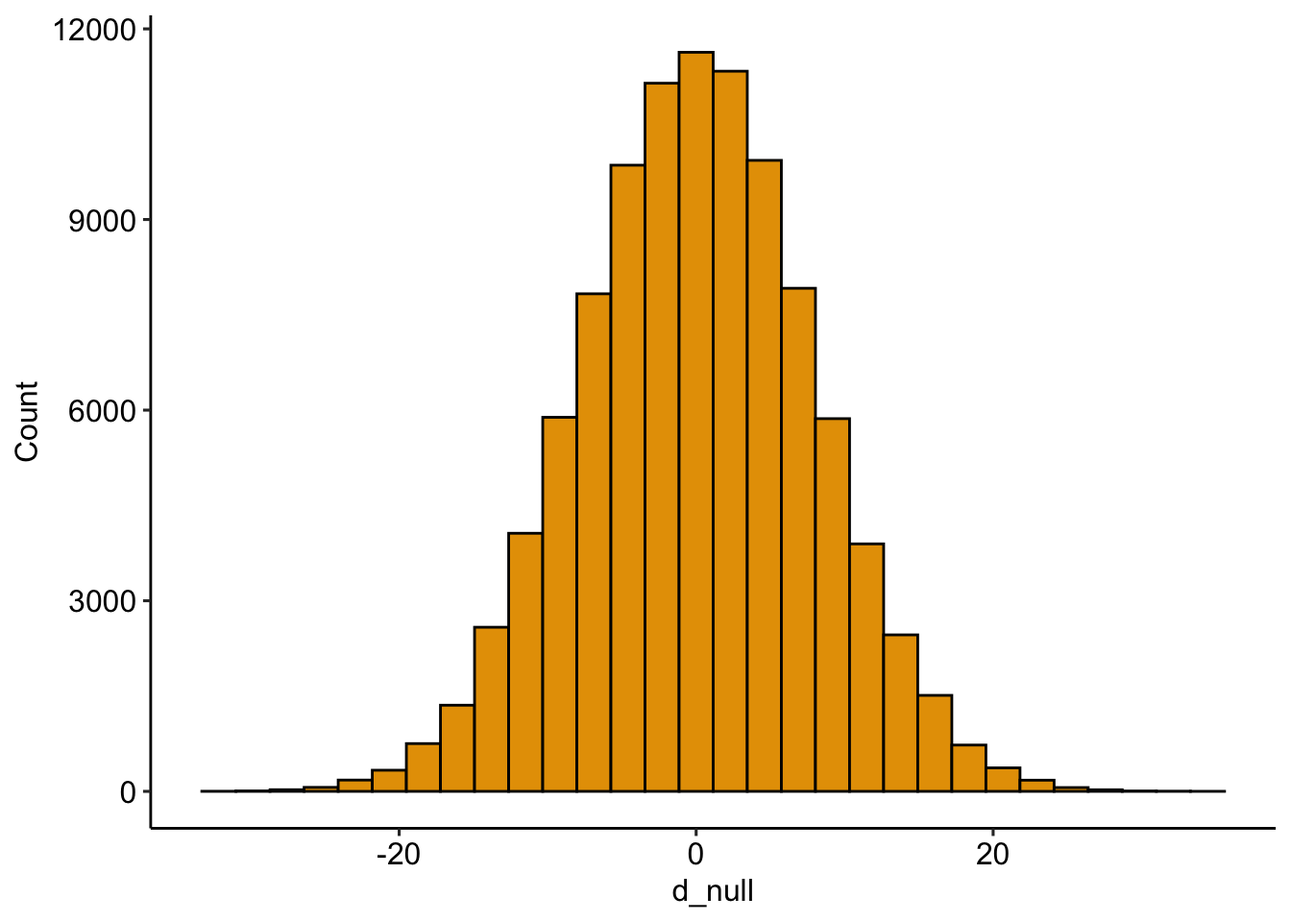
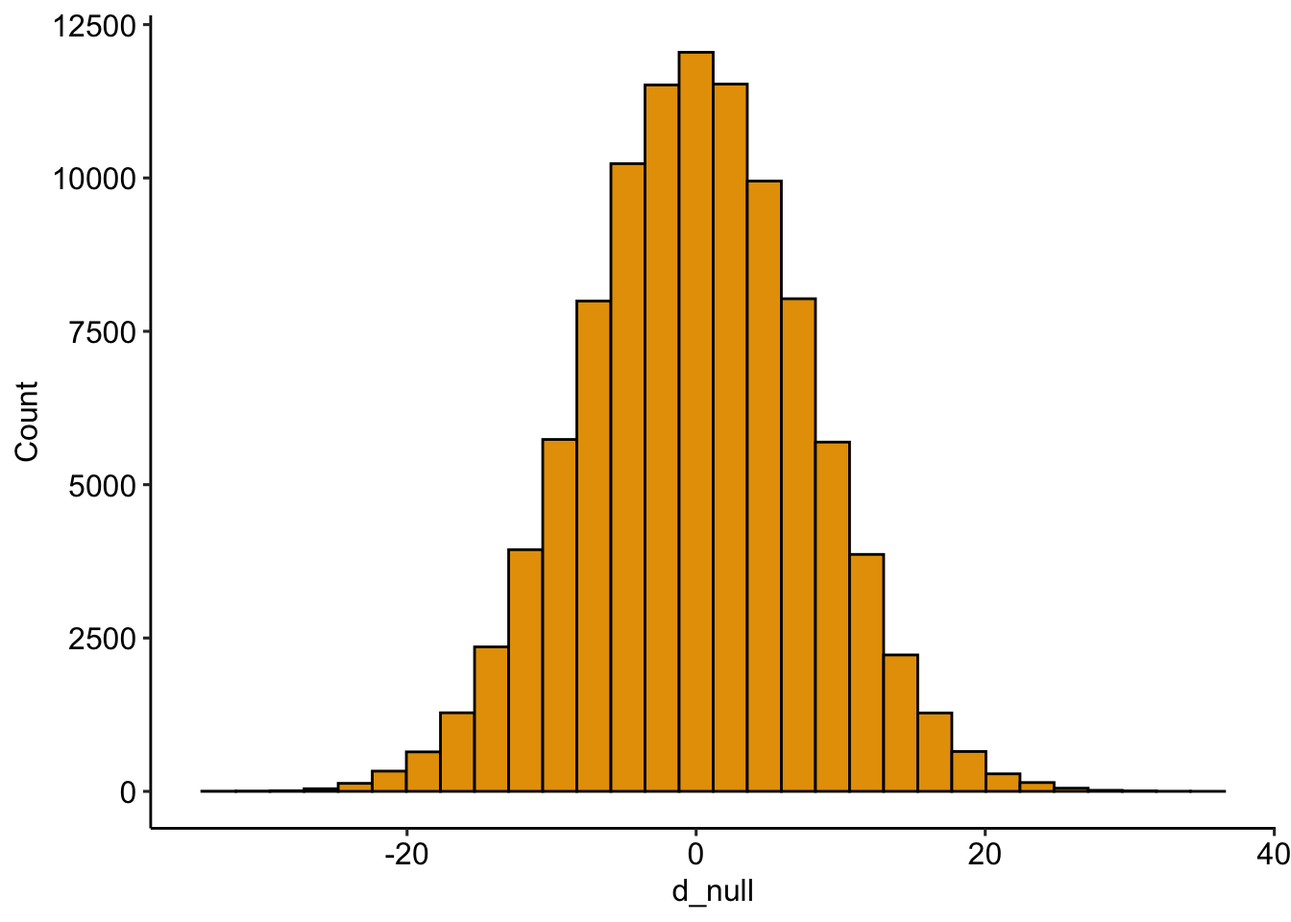
pval quarto work

diff --git a/docs/chapters/p-values.html b/docs/chapters/p-values.html
@@ -313,29 +313,40 @@ window.Quarto = {
 <p>To deconstruct what this means, and the implications of the meaning, let’s use the fig2i data from Figure 2i in the study on the browning of white adipose tissue in mice that was introduced in <a href="../intro.html" class="quarto-xref"><span>Chapter 1</span></a></p>
 <p>Data source: <a href="https://www.nature.com/articles/s41467-020-15483-7" target="_blank">ASK1 inhibits browning of white adipose tissue in obesity</a></p>
 <div class="cell">
-<div class="sourceCode cell-code" id="cb1"><pre class="sourceCode r code-with-copy"><code class="sourceCode r"><span id="cb1-1"><a href="#cb1-1" aria-hidden="true" tabindex="-1"></a>fig_2i_m1 <span class="ot">&lt;-</span> <span class="fu">lm</span>(liver_tg <span class="sc">~</span> treatment, <span class="at">data =</span> fig_2i)</span></code><button title="Copy to Clipboard" class="code-copy-button"><i class="bi"></i></button></pre></div>
+<div class="sourceCode cell-code" id="cb1"><pre class="sourceCode r code-with-copy"><code class="sourceCode r"><span id="cb1-1"><a href="#cb1-1" aria-hidden="true" tabindex="-1"></a>fig2i_m1 <span class="ot">&lt;-</span> <span class="fu">lm</span>(liver_tg <span class="sc">~</span> treatment, <span class="at">data =</span> fig2i)</span></code><button title="Copy to Clipboard" class="code-copy-button"><i class="bi"></i></button></pre></div>
 </div>
-<p>The chunk above fits a linear model with <code>liver_tg</code> as the response variable and <code>treatment</code> as the single <span class="math inline">\(X\)</span>-varaiable. Figure <span class="quarto-unresolved-ref">?fig-fig2i</span> is the plot of the modeled means, 95% confidence intervals of the mean, and <em>p</em>-value of the significance test of the effect of treatment on liver triacylglycerol.</p>
+<p>The chunk above fits a linear model with <code>liver_tg</code> as the response variable and <code>treatment</code> as the single <span class="math inline">\(X\)</span>-varaiable. <a href="#fig-pvals-fig2i" class="quarto-xref">Figure&nbsp;<span>6.1</span></a> is the plot of the modeled means, 95% confidence intervals of the mean, and <em>p</em>-value of the significance test of the effect of treatment on liver triacylglycerol.</p>
 <div class="cell">
 <div class="cell-output-display">
-<div>
-<figure class="figure">
-<p><img src="p-values_files/figure-html/p-value-fig2i-fig-1.png" class="img-fluid figure-img" width="672"></p>
+<div id="fig-pvals-fig2i" class="quarto-float quarto-figure quarto-figure-center anchored">
+<figure class="quarto-float quarto-float-fig figure">
+<div aria-describedby="fig-pvals-fig2i-caption-0ceaefa1-69ba-4598-a22c-09a6ac19f8ca">
+<img src="p-values_files/figure-html/fig-pvals-fig2i-1.png" class="img-fluid figure-img" width="672">
+</div>
+<figcaption class="quarto-float-caption-bottom quarto-float-caption quarto-float-fig" id="fig-pvals-fig2i-caption-0ceaefa1-69ba-4598-a22c-09a6ac19f8ca">
+Figure&nbsp;6.1: UCP1 expression, relative to the mean level in the control group. Mean (circle) and 95% confidence interval (line) are shown. Unadjusted p-values are from linear model with sh-RNA treatment and LPS treatment fully crossed.
+</figcaption>
 </figure>
 </div>
 </div>
 </div>
-<p>Figure <span class="quarto-unresolved-ref">?fig-fig2i</span>. The coefficients of the model, and the standard error, 95% confidence interval, test-statistic, and <em>p</em>-value of each coefficient are shown in Table @ref(tab:pvalue-coef-table) Recall from Chapter @ref(analyzing-experimental-data-with-a-linear-model) that, with this model, the coefficient for the intercept term is the mean <code>liver_tg</code> for the control group, which is the estimate of the true mean for a mice with functional ASK1 protein. And the coefficient for the treatmentASK1Δadipo term is the difference in means between the knockout and control group, which is the estimate for the true effect of knocking out ASK1 in the adipose tissue. The <em>p</em>-value for this “effect” term is 0.012. How do we interpret this number?</p>
+<p>The coefficients of the model, and the standard error, 95% confidence interval, test-statistic, and <em>p</em>-value of each coefficient are shown in <a href="#tbl-pval-fig2i" class="quarto-xref">Table&nbsp;<span>6.1</span></a>. Recall from <a href="../intro.html" class="quarto-xref"><span>Chapter 1</span></a> that, with this model, the coefficient for the intercept term is the mean <code>liver_tg</code> for the control group, which is the estimate of the true mean for a mice with functional ASK1 protein. And the coefficient for the treatmentASK1Δadipo term is the difference in means between the knockout and control group, which is the estimate for the true effect of knocking out ASK1 in the adipose tissue. The <em>p</em>-value for the estimate of the effect is 0.012. How do we interpret this number?</p>
 <div class="cell">
+<div id="tbl-pval-fig2i" class="cell quarto-float quarto-figure quarto-figure-center anchored">
+<figure class="quarto-float quarto-float-tbl figure">
+<figcaption class="quarto-float-caption-top quarto-float-caption quarto-float-tbl" id="tbl-pval-fig2i-caption-0ceaefa1-69ba-4598-a22c-09a6ac19f8ca">
+Table&nbsp;6.1: Coefficient table of fig2i_m1
+</figcaption>
+<div aria-describedby="tbl-pval-fig2i-caption-0ceaefa1-69ba-4598-a22c-09a6ac19f8ca">
 <div class="cell-output-display">
-<table class="table caption-top table-sm table-striped small" data-quarto-postprocess="true">
+<table class="table do-not-create-environment cell caption-top table-sm table-striped small" data-quarto-postprocess="true">
 <thead>
 <tr class="header">
 <th style="text-align: left;" data-quarto-table-cell-role="th"></th>
 <th style="text-align: right;" data-quarto-table-cell-role="th">Estimate</th>
 <th style="text-align: right;" data-quarto-table-cell-role="th">Std. Error</th>
 <th style="text-align: right;" data-quarto-table-cell-role="th">t value</th>
-<th style="text-align: right;" data-quarto-table-cell-role="th">Pr(&gt;&amp;#124;t&amp;#124;)</th>
+<th style="text-align: right;" data-quarto-table-cell-role="th">p value</th>
 <th style="text-align: right;" data-quarto-table-cell-role="th">2.5 %</th>
 <th style="text-align: right;" data-quarto-table-cell-role="th">97.5 %</th>
 </tr>
@@ -365,21 +376,24 @@ window.Quarto = {
 
 </div>
 </div>
+</figure>
+</div>
+</div>
 <section id="a-p-value-is-the-probability-of-sampling-a-value-as-or-more-extreme-than-the-test-statistic-if-sampling-from-a-null-distribution" class="level2" data-number="6.1">
 <h2 data-number="6.1" class="anchored" data-anchor-id="a-p-value-is-the-probability-of-sampling-a-value-as-or-more-extreme-than-the-test-statistic-if-sampling-from-a-null-distribution"><span class="header-section-number">6.1</span> A <em>p</em>-value is the probability of sampling a value as or more extreme than the test statistic if sampling from a null distribution</h2>
 <p>The test statistic in the table above is a <em>t</em>-value. For this specific model, this <em>t</em>-value is precisely the <em>t</em>-value one would get if they executed a classical Student <em>t</em>-test on the two groups of liver TG values. Importantly, this is not generally true. For many of the models in this text, a <em>t</em>-value is computed but this is <em>not</em> the <em>t</em>-value that would be computed in a classical <em>t</em>-test.</p>
 <p>When we do a <em>t</em>-test, we get a <em>p</em>-value. The probability returned in a <em>t</em>-test is <span class="math inline">\(p = \mathrm{prob}(t \ge t_{obs} | H_0)\)</span>. Read this as “the p-value is the probability of observing a t-value that is greater than or equal to the observed t-value, given the null model is true.” Probability, in this text, is a long run frequency of sampling. The specific probability associated with the effect of treatment on liver TG is the long-run frequency of observing a <em>t</em>-value as big or bigger than the observed <em>t</em>-value (the one you actually got with your data) if the null is true. Let’s parse this into “long run frequency of observing a <em>t</em>-value as big or bigger than the observed <em>t</em>-value” and “null is true”.</p>
 <p>A thought experiment: You open a google sheet and insert 12 standard, normal random deviates (so the true mean is zero and the true variance is one) in Column A, rows 1-12. You arbitrarily assign the first six values (rows 1-6) to treatment A and the second six values (rows 7-12) to treatment B. You use the space immediately below these data to compute the mean of treatment A, the mean of treatment B, the difference in means (A - B), and a <em>t</em>-value. Unfortunately, google sheets doesn’t have a <em>t</em>-value function so you’d have to compute this yourself. Or not, since this is a thought experiment. Now “fill right” or copy and paste these functions into 999 new columns. You now have 1000 <em>t</em>-tests. The expected value of the difference in means is zero (why?) but the actual values will form a normal distribution about zero. Most will be close to zero (either in the negative or positive direction) but some will be further from zero. The expected <em>t</em>-value will also be zero (why?) and the distribution of these 1000 <em>t</em>-values will look normal but the tails are a little fuller. This row of <em>t</em>-values is a null distribution, because in generating the data we used the exact same formula for the values assigned to A and the values assigned to B. Now think of a <em>t</em>-value in your head, say 0.72 (remember that <em>t</em>-values will largely range from about -3 to +3 although the theoretical range is <span class="math inline">\(-\infty\)</span> to <span class="math inline">\(+\infty\)</span>. What is the probability of observing a <em>t</em> of 0.72 <em>or bigger</em> if the null is true? Look at the row of <em>t</em>-values! Count the number of <span class="math inline">\(t \ge 0.72\)</span> and then divide by the total number of <em>t</em>-values in the row (1000) and you have a probability computed as a frequency. But remember the frequentist definition is the long run frequency, or the expected frequency at the limit (when you’ve generated not 1000 or even 1,000,000 but an infinite number of columns and <em>t</em>-values).</p>
 <p>Some asides to the thought experiment: First, why “as big or bigger” and not just the probability of the value itself? The reason is that the probability of finding the exact <em>t</em> is 1/infinity, which doesn’t do us much good. So instead we compute the probability of finding <em>t</em> as big, or bigger, than our observed <em>t</em>. Second, the <em>t</em>-test probability described above is a “one-tail probability”. Because a difference can be both in the positive direction and the negative direction, we usually want to count all the <span class="math inline">\(t \ge 0.72\)</span> and the <span class="math inline">\(t \le -0.72\)</span> and then add these two counts to compute the frequency of <em>as extreme or more extreme</em> values. This is called a “two-tailed probability” because we find extremes at both tails of the distribution. Third, we don’t really count <span class="math inline">\(t \ge 0.72\)</span> but take advantage of the beautiful mathematical properties of the theoretical <em>t</em> distribution, which allows us to compute the frequentist probability (expected long range frequency) given the <em>t</em>-value and the degrees of freedom using the <em>t</em>-distribution.</p>
-<p>Now what do I mean with the phrase “null is true”? Most people equate “null is true” with “no difference in means” but the phrase entails much more than this. Effectively, the phrase is short for “all assumptions used to compute” the <em>p</em>-value (see the Sander Greenland quote at the start of this chapter). A <em>p</em>-value is based on modeling the real data with a theoretical sample in which all the values were randomly sampled from the same distribution and the assignment of the individual values to treatment was random. Random sampling from the same distribution has three important consequences. First, random assignment to treatment group means that the expected means of each group are the same, or put differently, the expected difference in means between the assigned groups is zero. Second, random assignment to treatment <em>also</em> means that the expected variances of the two groups are equal. And third, random sampling means that the values of each point are independent – we cannot predict the value of one point knowing information about any other point. <strong>Here is what is super important about this</strong>: a low <em>p</em>-value is more likely if <em>any</em> one of these consequences is untrue about our data. A low <em>p</em>-value could arise from a difference in true means, or it could arise from a difference in true variances, or it could arise if the <span class="math inline">\(Y\)</span> values are not independent of each other. This is why we need certain assumptions to make a <em>p</em>-value meaningful for empirical data. By assuming independent error and homogenous (equal) variances in our two samples, a low <em>p</em>-value is evidence of unequal means.</p>
+<p>Now what do I mean with the phrase “null is true”? Most people equate “null is true” with “no difference in means” but the phrase entails much more than this. Effectively, the phrase is short for “all assumptions used to compute” the <em>p</em>-value (see the Sander Greenland quote at the start of this chapter). A <em>p</em>-value is based on modeling the real data with a theoretical sample in which all the values were randomly sampled from the same distribution and the assignment of the individual values to treatment was random. Random sampling from the same distribution has three important consequences. First, random assignment to treatment group means that the expected means of each group are the same, or put differently, the expected difference in means between the assigned groups is zero. Second, random assignment to treatment <em>also</em> means that the expected variances of the two groups are equal. And third, random sampling means that the values of each point are independent – we cannot predict the value of one point knowing information about any other point. <strong>Here is what is super important about this</strong>: a <em>p</em>-value is less reliable if <em>any</em> one of these consequences is untrue about our data. A low <em>p</em>-value could arise from a difference in true means, or it could arise from a difference in true variances, or it could arise if the <span class="math inline">\(Y\)</span> values are not independent of each other. This is why we need certain assumptions to make a <em>p</em>-value meaningful for empirical data. By assuming independent error and homogenous (equal) variances in our two samples, a low <em>p</em>-value is evidence of unequal means.</p>
 <p>Let’s summarize: A pretty good definition of a <em>p</em>-value is: the long-run frequency of observing a test-statistic as large or larger than the observed statistic, if the null were true. A more succinct way to state this is</p>
-<p><span class="math display">\[\begin{equation}
+<p><span class="math display">\[
 p = \mathrm{prob}(t \ge t_o | H_o)
-\end{equation}\]</span></p>
+\]</span></p>
 <p>where <em>t</em> is a hypothetically sampled <em>t</em>-value from a null distribution, <span class="math inline">\(t_o\)</span> is the observed <em>t</em>-value, and <span class="math inline">\(H_o\)</span> is the null hypothesis. Part of the null hypothesis is the expected value of the parameter estimated is usually (but not always) zero – this can be called the nil null. For example, if there is no ASK1 deletion effect on liver TG levels, then the expected difference between the means of the control and knockout mice is zero. Or,</p>
-<p><span class="math display">\[\begin{equation}
+<p><span class="math display">\[
 \mathrm{E}(\bar{Y}_{knockout} - \bar{Y}_{control} | H_o) = 0.0
-\end{equation}\]</span></p>
+\]</span></p>
 </section>
 <section id="pump-your-intuition-creating-a-null-distribution" class="level2" data-number="6.2">
 <h2 data-number="6.2" class="anchored" data-anchor-id="pump-your-intuition-creating-a-null-distribution"><span class="header-section-number">6.2</span> Pump your intuition – Creating a null distribution</h2>
@@ -389,10 +403,10 @@ p = \mathrm{prob}(t \ge t_o | H_o)
 <div class="sourceCode cell-code" id="cb2"><pre class="sourceCode r code-with-copy"><code class="sourceCode r"><span id="cb2-1"><a href="#cb2-1" aria-hidden="true" tabindex="-1"></a>seed <span class="ot">&lt;-</span> <span class="dv">1</span></span>
 <span id="cb2-2"><a href="#cb2-2" aria-hidden="true" tabindex="-1"></a>n_rep <span class="ot">&lt;-</span> <span class="dv">10</span><span class="sc">^</span><span class="dv">5</span> <span class="co"># number of replicate experiments</span></span>
 <span id="cb2-3"><a href="#cb2-3" aria-hidden="true" tabindex="-1"></a></span>
-<span id="cb2-4"><a href="#cb2-4" aria-hidden="true" tabindex="-1"></a>mu <span class="ot">&lt;-</span> <span class="fu">mean</span>(fig_2i[treatment <span class="sc">==</span> <span class="st">"ASK1F/F"</span>, liver_tg]) </span>
-<span id="cb2-5"><a href="#cb2-5" aria-hidden="true" tabindex="-1"></a>sigma <span class="ot">&lt;-</span> <span class="fu">sd</span>(fig_2i[treatment <span class="sc">==</span> <span class="st">"ASK1F/F"</span>, liver_tg])</span>
+<span id="cb2-4"><a href="#cb2-4" aria-hidden="true" tabindex="-1"></a>mu <span class="ot">&lt;-</span> <span class="fu">mean</span>(fig2i[treatment <span class="sc">==</span> <span class="st">"ASK1F/F"</span>, liver_tg]) </span>
+<span id="cb2-5"><a href="#cb2-5" aria-hidden="true" tabindex="-1"></a>sigma <span class="ot">&lt;-</span> <span class="fu">sd</span>(fig2i[treatment <span class="sc">==</span> <span class="st">"ASK1F/F"</span>, liver_tg])</span>
 <span id="cb2-6"><a href="#cb2-6" aria-hidden="true" tabindex="-1"></a></span>
-<span id="cb2-7"><a href="#cb2-7" aria-hidden="true" tabindex="-1"></a>n <span class="ot">&lt;-</span> <span class="fu">nrow</span>(fig_2i[treatment <span class="sc">==</span> <span class="st">"ASK1F/F"</span>,])</span>
+<span id="cb2-7"><a href="#cb2-7" aria-hidden="true" tabindex="-1"></a>n <span class="ot">&lt;-</span> <span class="fu">nrow</span>(fig2i[treatment <span class="sc">==</span> <span class="st">"ASK1F/F"</span>,])</span>
 <span id="cb2-8"><a href="#cb2-8" aria-hidden="true" tabindex="-1"></a></span>
 <span id="cb2-9"><a href="#cb2-9" aria-hidden="true" tabindex="-1"></a>d_null <span class="ot">&lt;-</span> <span class="fu">numeric</span>(n_rep)</span>
 <span id="cb2-10"><a href="#cb2-10" aria-hidden="true" tabindex="-1"></a><span class="cf">for</span>(rep <span class="cf">in</span> <span class="dv">1</span><span class="sc">:</span>n_rep){</span>
@@ -428,17 +442,17 @@ p = \mathrm{prob}(t \ge t_o | H_o)
 <li>repeat 1-3 100,000 times, each time saving the difference in means.</li>
 <li>plot the distribution of the 100,000 differences using a histogram</li>
 </ol>
-<p>The distribution of the differences is a null distribution. Notice that the mode of the null distribution is at zero, and the mean (0.00283) is close to zero (if we had set <span class="math inline">\(n\)</span> to infinity, the mean would be precisely zero). <em>The expected difference between the means of two random samples from the same population is, of course, zero</em>. Don’t gloss over this statement if that is not obvious. The tails extend out to a little more than +20 and -20. What this means is that it would be uncommon to randomly sample a value from this distribution of differences <em>as or more extreme</em> than our observed difference, -21.6. By “more extreme”, I mean any value more negative than -21.6 or more postive than 21.6. So it would be uncommon to sample a value from this distribution whose <em>absolute value</em> is as or more extreme than 21.6. How uncommon would this be?</p>
+<p>The distribution of the differences is a null distribution. Notice that the mode of the null distribution is at zero, and the mean (-0.04009) is close to zero (if we had set <span class="math inline">\(n\)</span> to infinity, the mean would be precisely zero). <em>The expected difference between the means of two random samples from the same population is, of course, zero</em>. Don’t gloss over this statement if that is not obvious. The tails extend out to a little more than +20 and -20. What this means is that it would be uncommon to randomly sample a value from this distribution of differences <em>as or more extreme</em> than our observed difference, -21.6. By “more extreme”, I mean any value more negative than -21.6 or more postive than 21.6. So it would be uncommon to sample a value from this distribution whose <em>absolute value</em> is as or more extreme than 21.6. How uncommon would this be?</p>
 <div class="cell">
-<div class="sourceCode cell-code" id="cb3"><pre class="sourceCode r code-with-copy"><code class="sourceCode r"><span id="cb3-1"><a href="#cb3-1" aria-hidden="true" tabindex="-1"></a>diff_obs <span class="ot">&lt;-</span> fig_2i_m1_coef[<span class="st">"treatmentASK1Δadipo"</span>, <span class="st">"Estimate"</span>]</span>
+<div class="sourceCode cell-code" id="cb3"><pre class="sourceCode r code-with-copy"><code class="sourceCode r"><span id="cb3-1"><a href="#cb3-1" aria-hidden="true" tabindex="-1"></a>diff_obs <span class="ot">&lt;-</span> fig2i_m1_coef[<span class="st">"treatmentASK1Δadipo"</span>, <span class="st">"Estimate"</span>]</span>
 <span id="cb3-2"><a href="#cb3-2" aria-hidden="true" tabindex="-1"></a>null_diff_extreme <span class="ot">&lt;-</span> <span class="fu">which</span>(<span class="fu">abs</span>(d_null) <span class="sc">&gt;</span> <span class="fu">abs</span>(diff_obs))</span>
 <span id="cb3-3"><a href="#cb3-3" aria-hidden="true" tabindex="-1"></a>n_extreme <span class="ot">&lt;-</span> <span class="fu">length</span>(null_diff_extreme)</span>
 <span id="cb3-4"><a href="#cb3-4" aria-hidden="true" tabindex="-1"></a>(<span class="at">p_d_null =</span> n_extreme<span class="sc">/</span>n_rep)</span></code><button title="Copy to Clipboard" class="code-copy-button"><i class="bi"></i></button></pre></div>
 <div class="cell-output cell-output-stdout">
-<pre><code>[1] 0.00593</code></pre>
+<pre><code>[1] 0.00558</code></pre>
 </div>
 </div>
-<p>In the 100,000 runs, only 593 generated data with an absolute difference as large or larger than 21.6 (an “absolute difference” is the absolute value of the difference). The frequency of differences as large or larger than our observed difference is 0.00593. This frequency is the <em>probability</em> of sampling a difference as or more extreme than the observed difference “under the null”. It is a <em>p</em>-value, but it is not the <em>p</em>-value in the coefficient table. This is because the <em>p</em>-value in the coefficient table is computed from a distribution of <em>t</em>-values, not raw differences. This raises the question, what is a <em>t</em>-distribution, and a <em>t</em>-value, more generally?</p>
+<p>In the 100,000 runs, only 558 generated data with an absolute difference as large or larger than 21.6 (an “absolute difference” is the absolute value of the difference). The frequency of differences as large or larger than our observed difference is 0.00558. This frequency is the <em>probability</em> of sampling a difference as or more extreme than the observed difference “under the null”. It is a <em>p</em>-value, but it is not the <em>p</em>-value in the coefficient table. This is because the <em>p</em>-value in the coefficient table is computed from a distribution of <em>t</em>-values, not raw differences. This raises the question, what is a <em>t</em>-distribution, and a <em>t</em>-value, more generally?</p>
 </section>
 <section id="a-null-distribution-of-t-values-the-t-distribution" class="level2" data-number="6.3">
 <h2 data-number="6.3" class="anchored" data-anchor-id="a-null-distribution-of-t-values-the-t-distribution"><span class="header-section-number">6.3</span> A null distribution of <em>t</em>-values – the <em>t</em> distribution</h2>
@@ -455,7 +469,7 @@ t = \frac{\bar{y}_2 - \bar{y}_1}{SE_{\bar{y}_2 - \bar{y}_1}}
 \tag{6.1}\]</span></span></p>
 <p>The numerator is <strong>the effect</strong> while the denominator is the precision of the estimate. Like many test statistics, a <em>t</em>-value is a signal-to-noise ratio – the effect is the signal and the SE of the difference is the noise.</p>
 <p>A <em>t</em> distribution looks like a standard, normal distribution, except the tails are heavy, meaning there are more large-ish values than the normal. Like the standard normal distribution, large <em>t</em>-values are unlikely under the null and, therefore, a large <em>t</em> has a low probability – or <em>p</em>-value – under the null.</p>
-<p>Looking at the equation for the two-sample <em>t</em>-test above, it is easy to see that three features of an experiment are associated with large <em>t</em> and small <em>p</em>-values: 1) big effect size (the numerator of the equation), 2) small sample standard deviations (which results in small standard errors of the difference, the denominator of equation <a href="#eq-t" class="quarto-xref">Equation&nbsp;<span>6.1</span></a>, and 3) large sample size (which results in small standard errors of the difference). As a quick-and-dirty generalization, absolute t-values greater than 3 are uncommon if the null is true.</p>
+<p>Looking at the equation for the two-sample <em>t</em>-test above, it is easy to see that three features of an experiment are associated with large <em>t</em> and small <em>p</em>-values: 1) big effect size (the numerator of the equation), 2) small sample standard deviations (which results in small standard errors of the difference, the denominator of <a href="#eq-t" class="quarto-xref">Equation&nbsp;<span>6.1</span></a>, and 3) large sample size (which results in small standard errors of the difference). As a quick-and-dirty generalization, absolute t-values greater than 3 are uncommon if the null is true.</p>
 <p>The <em>p</em>-value for a <em>t</em>-test comes from comparing the observed <em>t</em> to a null <em>t</em> distribution and “counting” the values that are more extreme than the observed <em>t</em>. The <em>p</em>-value is the relative frequency of these more extreme values (relative to the total number of <em>t</em>-values in the distribution). I have “counting” in quotes because nothing is really counted – there are an infinite number of <em>t</em>-values in the <em>t</em>-distribution. Instead, the t-distribution function is integrated to compute the fraction of the total area under the curve with <em>t</em>-values more extreme than the observed value. In a <strong>two-tailed test</strong>, this fraction includes both tails (positive <em>t</em>-values more positive than <span class="math inline">\(|t|_{observed}\)</span> and negative <em>t</em>-values more negative than <span class="math inline">\(-|t|_{observed}\)</span>.</p>
 <p>Let’s repeat the simulation of a null distribution of mean differences above but add the computation of the t-value for each replicate comparison in order to generate a null distribution of <em>t</em>-values. Importantly, I’ve also changed bits of the code to more properly think about what a computed <em>t</em>-value is. These changes are:</p>
 <ol type="1">
@@ -470,12 +484,12 @@ t = \frac{\bar{y}_2 - \bar{y}_1}{SE_{\bar{y}_2 - \bar{y}_1}}
 <span id="cb5-4"><a href="#cb5-4" aria-hidden="true" tabindex="-1"></a>  seed <span class="ot">&lt;-</span> <span class="dv">1</span></span>
 <span id="cb5-5"><a href="#cb5-5" aria-hidden="true" tabindex="-1"></a>  n_rep <span class="ot">&lt;-</span> <span class="dv">10</span><span class="sc">^</span><span class="dv">5</span> <span class="co"># number of iterations</span></span>
 <span id="cb5-6"><a href="#cb5-6" aria-hidden="true" tabindex="-1"></a>  </span>
-<span id="cb5-7"><a href="#cb5-7" aria-hidden="true" tabindex="-1"></a>  mu <span class="ot">&lt;-</span> <span class="fu">mean</span>(fig_2i[treatment <span class="sc">==</span> <span class="st">"ASK1F/F"</span>, liver_tg])</span>
-<span id="cb5-8"><a href="#cb5-8" aria-hidden="true" tabindex="-1"></a>  sd_control <span class="ot">&lt;-</span> <span class="fu">sd</span>(fig_2i[treatment <span class="sc">==</span> <span class="st">"ASK1F/F"</span>, liver_tg])</span>
-<span id="cb5-9"><a href="#cb5-9" aria-hidden="true" tabindex="-1"></a>  sd_knockout <span class="ot">&lt;-</span> <span class="fu">sd</span>(fig_2i[treatment <span class="sc">==</span> <span class="st">"ASK1Δadipo"</span>, liver_tg])</span>
+<span id="cb5-7"><a href="#cb5-7" aria-hidden="true" tabindex="-1"></a>  mu <span class="ot">&lt;-</span> <span class="fu">mean</span>(fig2i[treatment <span class="sc">==</span> <span class="st">"ASK1F/F"</span>, liver_tg])</span>
+<span id="cb5-8"><a href="#cb5-8" aria-hidden="true" tabindex="-1"></a>  sd_control <span class="ot">&lt;-</span> <span class="fu">sd</span>(fig2i[treatment <span class="sc">==</span> <span class="st">"ASK1F/F"</span>, liver_tg])</span>
+<span id="cb5-9"><a href="#cb5-9" aria-hidden="true" tabindex="-1"></a>  sd_knockout <span class="ot">&lt;-</span> <span class="fu">sd</span>(fig2i[treatment <span class="sc">==</span> <span class="st">"ASK1Δadipo"</span>, liver_tg])</span>
 <span id="cb5-10"><a href="#cb5-10" aria-hidden="true" tabindex="-1"></a>  sigma <span class="ot">&lt;-</span> <span class="fu">sqrt</span>((sd_control<span class="sc">^</span><span class="dv">2</span> <span class="sc">+</span> sd_knockout<span class="sc">^</span><span class="dv">2</span>)<span class="sc">/</span><span class="dv">2</span>)</span>
 <span id="cb5-11"><a href="#cb5-11" aria-hidden="true" tabindex="-1"></a>  </span>
-<span id="cb5-12"><a href="#cb5-12" aria-hidden="true" tabindex="-1"></a>  n <span class="ot">&lt;-</span> <span class="fu">nrow</span>(fig_2i[treatment <span class="sc">==</span> <span class="st">"ASK1F/F"</span>,])</span>
+<span id="cb5-12"><a href="#cb5-12" aria-hidden="true" tabindex="-1"></a>  n <span class="ot">&lt;-</span> <span class="fu">nrow</span>(fig2i[treatment <span class="sc">==</span> <span class="st">"ASK1F/F"</span>,])</span>
 <span id="cb5-13"><a href="#cb5-13" aria-hidden="true" tabindex="-1"></a>  </span>
 <span id="cb5-14"><a href="#cb5-14" aria-hidden="true" tabindex="-1"></a>  treatment <span class="ot">&lt;-</span> <span class="fu">rep</span>(<span class="fu">c</span>(<span class="st">"WT"</span>, <span class="st">"KO"</span>), <span class="at">each =</span> n) <span class="sc">|&gt;</span></span>
 <span id="cb5-15"><a href="#cb5-15" aria-hidden="true" tabindex="-1"></a>    <span class="fu">factor</span>(<span class="at">levels =</span> <span class="fu">c</span>(<span class="st">"WT"</span>, <span class="st">"KO"</span>)) <span class="co"># need this for for-loop</span></span>
@@ -531,7 +545,7 @@ t = \frac{\bar{y}_2 - \bar{y}_1}{SE_{\bar{y}_2 - \bar{y}_1}}
 <span id="cb6-6"><a href="#cb6-6" aria-hidden="true" tabindex="-1"></a><span class="co"># this is a "two-tail test"</span></span>
 <span id="cb6-7"><a href="#cb6-7" aria-hidden="true" tabindex="-1"></a></span>
 <span id="cb6-8"><a href="#cb6-8" aria-hidden="true" tabindex="-1"></a><span class="co"># first assign the observed t-value</span></span>
-<span id="cb6-9"><a href="#cb6-9" aria-hidden="true" tabindex="-1"></a>t_obs <span class="ot">&lt;-</span> fig_2i_m1_coef[<span class="st">"treatmentASK1Δadipo"</span>, <span class="st">"t value"</span>]</span>
+<span id="cb6-9"><a href="#cb6-9" aria-hidden="true" tabindex="-1"></a>t_obs <span class="ot">&lt;-</span> fig2i_m1_coef[<span class="st">"treatmentASK1Δadipo"</span>, <span class="st">"t value"</span>]</span>
 <span id="cb6-10"><a href="#cb6-10" aria-hidden="true" tabindex="-1"></a></span>
 <span id="cb6-11"><a href="#cb6-11" aria-hidden="true" tabindex="-1"></a></span>
 <span id="cb6-12"><a href="#cb6-12" aria-hidden="true" tabindex="-1"></a><span class="co"># now count the number of t-values in t_dis as big or bigger than this</span></span>
@@ -560,8 +574,8 @@ t = \frac{\bar{y}_2 - \bar{y}_1}{SE_{\bar{y}_2 - \bar{y}_1}}
 <div class="sourceCode cell-code" id="cb8"><pre class="sourceCode r code-with-copy"><code class="sourceCode r"><span id="cb8-1"><a href="#cb8-1" aria-hidden="true" tabindex="-1"></a><span class="fu">set.seed</span>(<span class="dv">1</span>)</span>
 <span id="cb8-2"><a href="#cb8-2" aria-hidden="true" tabindex="-1"></a>n_iter <span class="ot">&lt;-</span> <span class="dv">5000</span> <span class="co"># number of random permutations</span></span>
 <span id="cb8-3"><a href="#cb8-3" aria-hidden="true" tabindex="-1"></a></span>
-<span id="cb8-4"><a href="#cb8-4" aria-hidden="true" tabindex="-1"></a>y <span class="ot">&lt;-</span> fig_2i[, liver_tg]</span>
-<span id="cb8-5"><a href="#cb8-5" aria-hidden="true" tabindex="-1"></a>x <span class="ot">&lt;-</span> fig_2i[, treatment]</span>
+<span id="cb8-4"><a href="#cb8-4" aria-hidden="true" tabindex="-1"></a>y <span class="ot">&lt;-</span> fig2i[, liver_tg]</span>
+<span id="cb8-5"><a href="#cb8-5" aria-hidden="true" tabindex="-1"></a>x <span class="ot">&lt;-</span> fig2i[, treatment]</span>
 <span id="cb8-6"><a href="#cb8-6" aria-hidden="true" tabindex="-1"></a></span>
 <span id="cb8-7"><a href="#cb8-7" aria-hidden="true" tabindex="-1"></a>perm_diff <span class="ot">&lt;-</span> <span class="fu">numeric</span>(n_iter) <span class="co"># this is a vector to hold the difference in means each iteration</span></span>
 <span id="cb8-8"><a href="#cb8-8" aria-hidden="true" tabindex="-1"></a></span>
